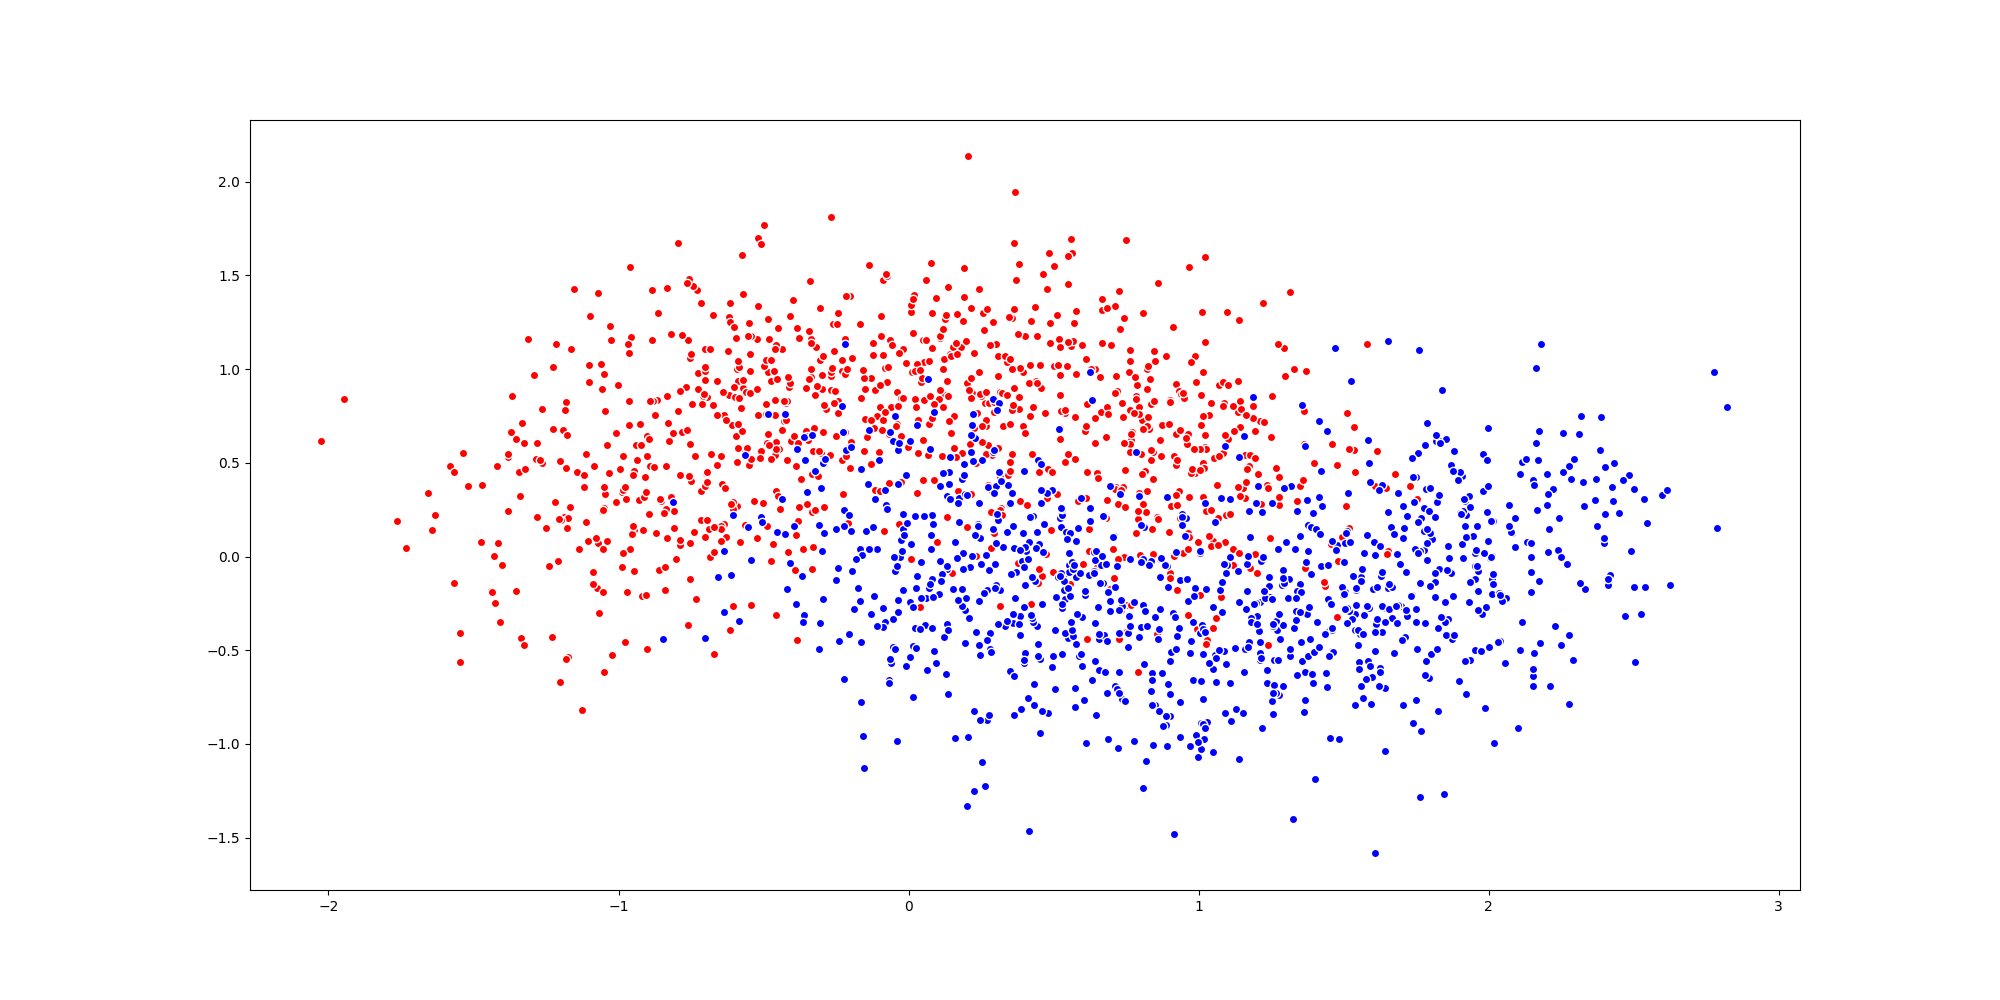
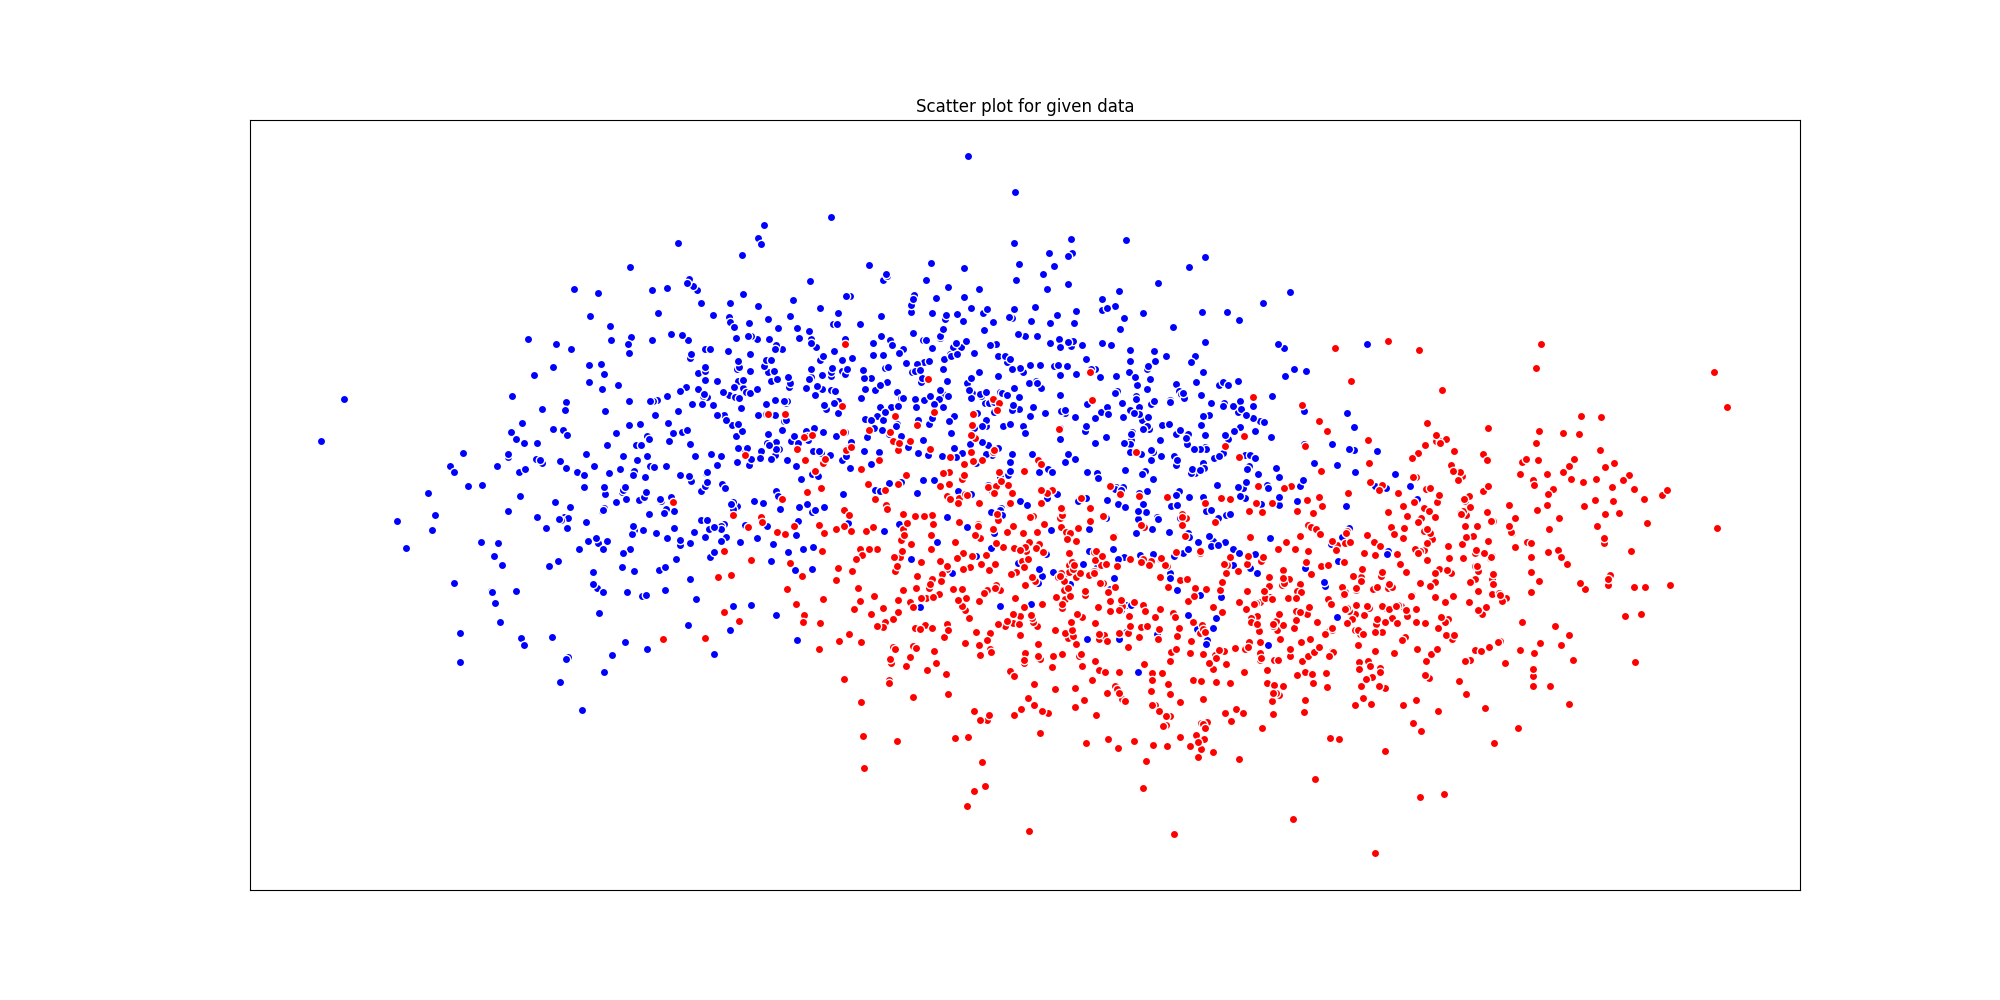
Added Q1.b

Changed region(s): [[0.248, 0.279, 0.837, 0.775], [0.465, 0.093, 0.558, 0.124], [0.465, 0.713, 0.496, 0.744]]

diff --git a/ML-M2019/assignment-2/Q1.py b/ML-M2019/assignment-2/Q1.py
@@ -51,12 +51,41 @@ def q1_a():
 		y_1.append(y)
 
 	plt.figure(figsize=(20, 10))
-	plt.scatter(x_0, y_0, color="red", edgecolors="white")
-	plt.scatter(x_1, y_1, color="blue", edgecolors="white")
+	plt.scatter(x_0, y_0, color="blue", edgecolors="white")
+	plt.scatter(x_1, y_1, color="red", edgecolors="white")
+	plt.xticks(())
+	plt.yticks(())
+	plt.title('Scatter plot for given data')
 	plt.savefig('Q1_a')
 
 def q1_b():
-	pass
+	from sklearn import svm
+
+	X, y = extract_h5_files()
+	clf = svm.SVC(gamma='scale')
+	clf.fit(X, y)
+	h = 0.02
+	x_min, x_max = X[:, 0].min() - 1, X[:, 0].max() + 1
+	y_min, y_max = X[:, 1].min() - 1, X[:, 1].max() + 1
+	xx, yy = np.meshgrid(np.arange(x_min, x_max, h),
+							np.arange(y_min, y_max, h))
+
+	Z = clf.predict(np.c_[xx.ravel(), yy.ravel()])
+
+	# Put the result into a color plot
+	Z = Z.reshape(xx.shape)
+	plt.figure(figsize=(20, 10))
+
+	plt.contourf(xx, yy, Z, cmap=plt.cm.coolwarm, alpha=0.8)
+
+	# Plot also the training points
+	plt.scatter(X[:, 0], X[:, 1], c=y, cmap=plt.cm.coolwarm, edgecolors='black')
+	plt.xlim(xx.min(), xx.max())
+	plt.ylim(yy.min(), yy.max())
+	plt.xticks(())
+	plt.yticks(())
+	plt.title('SVM decision boundary using RBF kernel')
+	plt.savefig('Q1_b')
 
 def q1_c():
 	pass
@@ -72,7 +101,7 @@ def q1_d():
 if __name__ == '__main__':
 	# Uncomment question to run.
 	# extract_h5_files()
-	q1_a()
+	# q1_a()
 	# q1_b()
 	# q1_c()
 	# q1_d()
